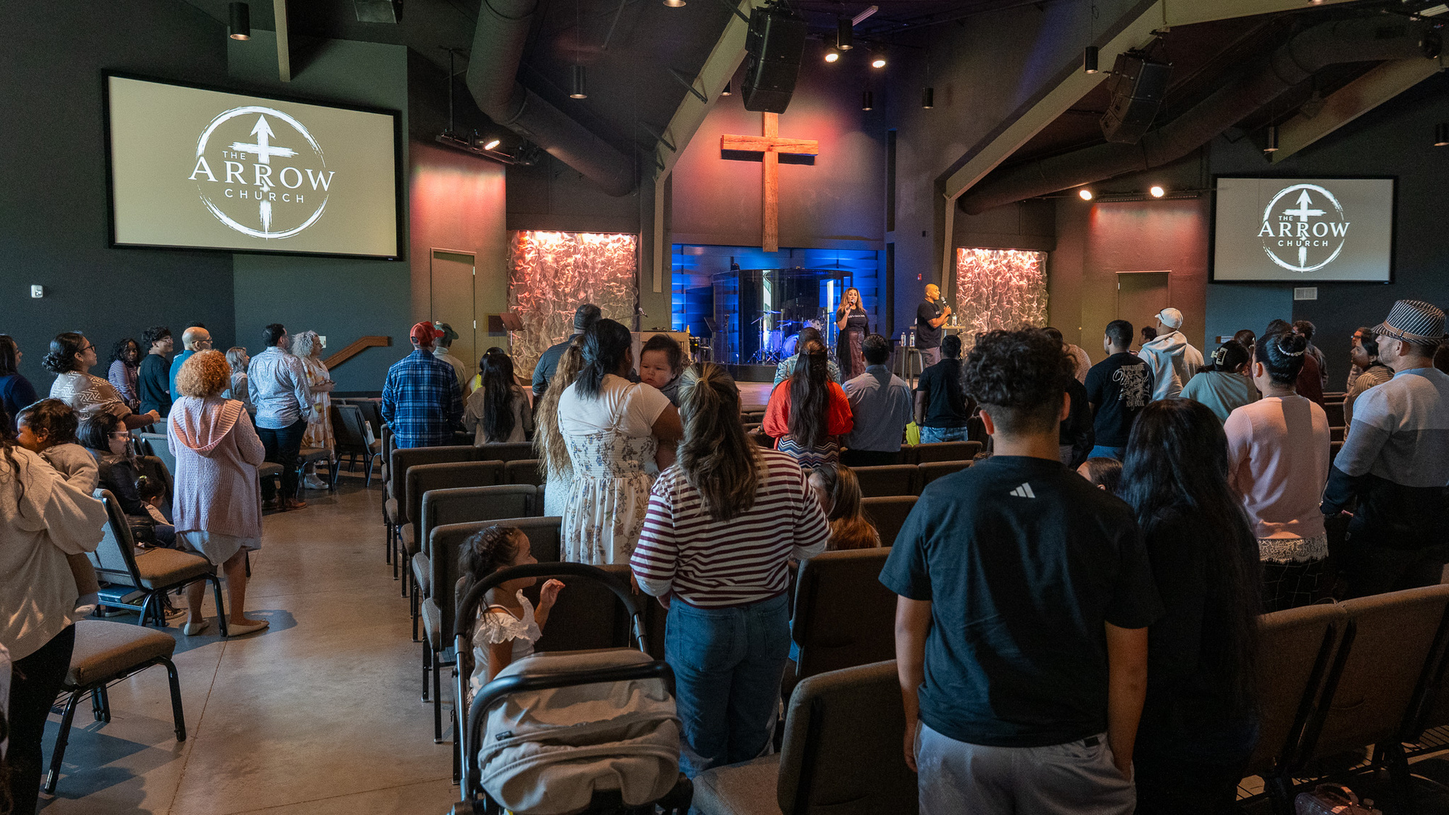
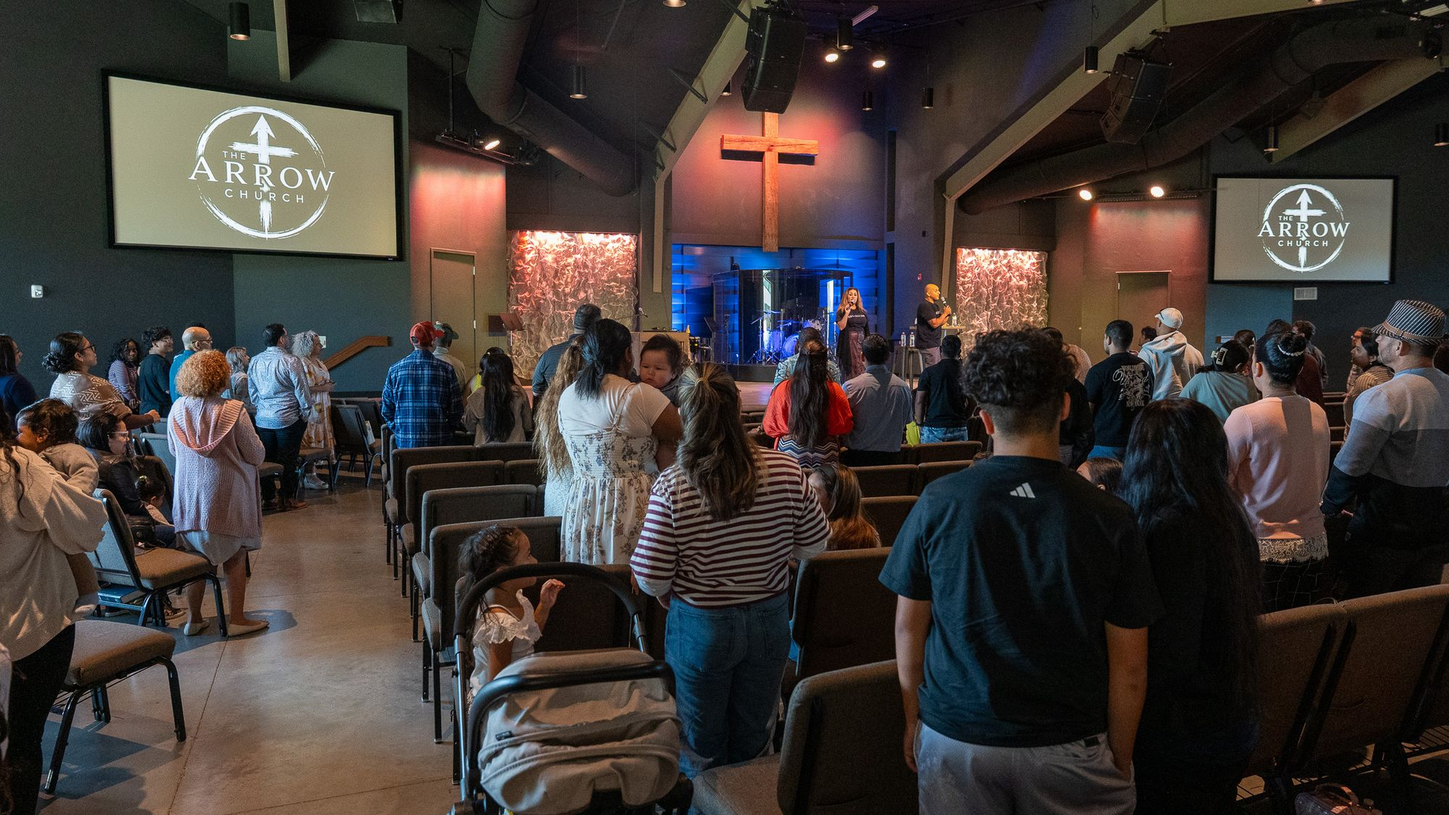
Shrink the heavy theme images and hint image loading. (#4)
Re-encode the hero, logo, pastors photo, and staff portraits, and add dimensions, lazy loading, and a high-priority preload for the hero.

diff --git a/index.html b/index.html
@@ -6,6 +6,7 @@
   <meta name="theme-color" content="#14213D">
   <title>The Arrow Church | A Place to Belong</title>
   <link rel="icon" href="assets/arrow-logo.png">
+  <link rel="preload" as="image" href="assets/arrow-home.jpg" fetchpriority="high">
   <link rel="preconnect" href="https://fonts.googleapis.com">
   <link rel="preconnect" href="https://fonts.gstatic.com" crossorigin>
   <link href="https://fonts.googleapis.com/css2?family=DM+Sans:wght@400;500;600;700&family=Manrope:wght@400;500;600;700;800&display=swap" rel="stylesheet">
@@ -15,7 +16,7 @@
   <a class="skip-link" href="#main">Skip to content</a>
   <header class="header" id="top">
     <div class="container header-inner">
-      <a class="logo" href="/" aria-label="The Arrow Church home"><img src="assets/arrow-logo.png" alt="The Arrow Church"></a>
+      <a class="logo" href="/" aria-label="The Arrow Church home"><img src="assets/arrow-logo.png" width="280" height="280" alt="The Arrow Church" decoding="async"></a>
       <button class="menu-toggle" type="button" aria-controls="main-nav" aria-expanded="false" aria-label="Open menu"><span></span><span></span></button>
       <nav id="main-nav" aria-label="Main navigation">
         <button class="menu-close" type="button">CLOSE MENU <span aria-hidden="true">&times;</span></button>
@@ -41,11 +42,11 @@
 
     <section class="welcome section" id="about"><div class="container welcome-grid"><div class="welcome-title"><p class="overline"><span class="overline-mark" aria-hidden="true"></span> WELCOME HOME</p><h2>Church can feel<br>like <em>home.</em></h2></div><div class="welcome-copy"><p>Join us in Janesville for a worship experience and a community where you truly belong. Whether this is your first time at church or you’ve been coming for years, there’s a place for you here.</p><a class="inline-link" href="/about/">GET TO KNOW US <span class="arrow-icon arrow-up-right" aria-hidden="true"></span></a></div></div></section>
 
-    <section class="experience section" id="experience"><div class="container"><div class="section-heading"><div><p class="overline"><span class="overline-mark" aria-hidden="true"></span> WHAT TO EXPECT</p><h2>Come as you are.<br><em>We mean it.</em></h2></div><p>Real people, worship, and room to connect. Your first visit starts with a simple hello.</p></div><div class="experience-layout"><div class="experience-photo"><img src="assets/arrow-worship.jpg" alt="Prayer and worship at The Arrow Church" loading="lazy"><span>01 / TOGETHER IN FAITH</span></div><div class="experience-panel"><span class="big-star" aria-hidden="true"></span><p class="panel-label">ONE CHURCH. TWO LANGUAGES.</p><h3>Bring your whole self.</h3><p>Our bilingual ministry gathers on Sundays and Fridays. Come with your family, bring a friend, or simply come as you are.</p><a class="button button-blue" href="#visit">JOIN US THIS WEEK <span class="arrow-icon arrow-up-right" aria-hidden="true"></span></a></div></div></div></section>
+    <section class="experience section" id="experience"><div class="container"><div class="section-heading"><div><p class="overline"><span class="overline-mark" aria-hidden="true"></span> WHAT TO EXPECT</p><h2>Come as you are.<br><em>We mean it.</em></h2></div><p>Real people, worship, and room to connect. Your first visit starts with a simple hello.</p></div><div class="experience-layout"><div class="experience-photo"><img src="assets/arrow-worship.jpg" width="670" height="350" alt="Prayer and worship at The Arrow Church" loading="lazy" decoding="async"><span>01 / TOGETHER IN FAITH</span></div><div class="experience-panel"><span class="big-star" aria-hidden="true"></span><p class="panel-label">ONE CHURCH. TWO LANGUAGES.</p><h3>Bring your whole self.</h3><p>Our bilingual ministry gathers on Sundays and Fridays. Come with your family, bring a friend, or simply come as you are.</p><a class="button button-blue" href="#visit">JOIN US THIS WEEK <span class="arrow-icon arrow-up-right" aria-hidden="true"></span></a></div></div></div></section>
 
     <section class="blue-statement section"><div class="container"><p class="overline light"><span class="overline-mark" aria-hidden="true"></span> YOU'RE INVITED</p><h2>Faith.<br>Family.<br><span>Forward.</span></h2><p>There’s a place for every generation at The Arrow.</p><a class="button button-white" href="#ministries">EXPLORE MINISTRIES <span class="arrow-icon arrow-up-right" aria-hidden="true"></span></a></div><div class="statement-arrow arrow-icon arrow-up-right" aria-hidden="true"></div></section>
 
-    <section class="ministries section" id="ministries"><div class="container"><div class="section-heading"><div><p class="overline"><span class="overline-mark" aria-hidden="true"></span> FIND YOUR PEOPLE</p><h2>A place for<br><em>every generation.</em></h2></div><p>Discover the ministries and community waiting for you and your family.</p></div><div class="ministry-grid"><a class="ministry-card" href="/ministries/childrens-ministry/"><img src="assets/arrow-kids.jpg" alt="Children at The Arrow Church" loading="lazy"><span class="ministry-title">KIDS <b class="arrow-icon arrow-up-right" aria-hidden="true"></b></span></a><a class="ministry-card" href="/ministries/youth-ministry/"><img src="assets/arrow-youth.jpg" alt="Youth at The Arrow Church" loading="lazy"><span class="ministry-title">YOUTH <b class="arrow-icon arrow-up-right" aria-hidden="true"></b></span></a><a class="ministry-card" href="/ministries/young-adults/"><img src="assets/arrow-young-adults.jpg" alt="Young adults at The Arrow Church" loading="lazy"><span class="ministry-title">YOUNG ADULTS <b class="arrow-icon arrow-up-right" aria-hidden="true"></b></span></a></div><a class="inline-link ministries-more" href="/ministries/">EXPLORE ALL MINISTRIES <span class="arrow-icon arrow-up-right" aria-hidden="true"></span></a></div></section>
+    <section class="ministries section" id="ministries"><div class="container"><div class="section-heading"><div><p class="overline"><span class="overline-mark" aria-hidden="true"></span> FIND YOUR PEOPLE</p><h2>A place for<br><em>every generation.</em></h2></div><p>Discover the ministries and community waiting for you and your family.</p></div><div class="ministry-grid"><a class="ministry-card" href="/ministries/childrens-ministry/"><img src="assets/arrow-kids.jpg" width="670" height="350" alt="Children at The Arrow Church" loading="lazy" decoding="async"><span class="ministry-title">KIDS <b class="arrow-icon arrow-up-right" aria-hidden="true"></b></span></a><a class="ministry-card" href="/ministries/youth-ministry/"><img src="assets/arrow-youth.jpg" width="670" height="350" alt="Youth at The Arrow Church" loading="lazy" decoding="async"><span class="ministry-title">YOUTH <b class="arrow-icon arrow-up-right" aria-hidden="true"></b></span></a><a class="ministry-card" href="/ministries/young-adults/"><img src="assets/arrow-young-adults.jpg" width="670" height="350" alt="Young adults at The Arrow Church" loading="lazy" decoding="async"><span class="ministry-title">YOUNG ADULTS <b class="arrow-icon arrow-up-right" aria-hidden="true"></b></span></a></div><a class="inline-link ministries-more" href="/ministries/">EXPLORE ALL MINISTRIES <span class="arrow-icon arrow-up-right" aria-hidden="true"></span></a></div></section>
 
     <section class="watch section" id="watch"><div class="container watch-grid"><div><p class="overline light"><span class="overline-mark" aria-hidden="true"></span> THE ARROW CHURCH ANYWHERE</p><h2>Church goes<br>where <em>you go.</em></h2><p>Join our family online, wherever you are. Watch live on Sundays at 12:30 PM and Fridays at 7:00 PM Central, or catch up on YouTube.</p><a class="button button-coral" href="https://www.youtube.com/@thearrowchurch/videos">MORE VIDEOS <span class="arrow-icon arrow-up-right" aria-hidden="true"></span></a></div><div class="watch-photo live-frame"><div class="live-poster"><span class="live-poster-label">THE ARROW CHURCH · ONLINE</span><div><strong>Worship with us<br>from anywhere.</strong><button class="live-play" type="button">PLAY LIVE SERVICE <span class="arrow-icon arrow-up-right" aria-hidden="true"></span></button><a href="https://www.youtube.com/@thearrowchurch/live" target="_blank" rel="noopener noreferrer">OPEN ON YOUTUBE <span class="arrow-icon arrow-up-right" aria-hidden="true"></span></a></div></div><iframe data-src="https://www.youtube-nocookie.com/embed/live_stream?channel=UCcavBZcLguyVMvWQST8CpMw" title="The Arrow Church live service" loading="lazy" allow="accelerometer; autoplay; clipboard-write; encrypted-media; gyroscope; picture-in-picture; web-share" allowfullscreen hidden></iframe></div></div></section>
 
@@ -53,7 +54,7 @@
     <section class="contact section" id="contact"><div class="container contact-grid"><div><p class="overline"><span class="overline-mark" aria-hidden="true"></span> GET IN TOUCH</p><h2>Let's talk.</h2><p>Have a question or want to plan your first visit? Send us a message and our team will be in touch.</p><a class="inline-link" href="tel:16087744837">OR CALL (608) 774-4837 <span class="arrow-icon arrow-up-right" aria-hidden="true"></span></a></div><form class="contact-form" action="/wp-admin/admin-post.php" method="post"><input type="hidden" name="action" value="arrow_contact"><input type="hidden" name="arrow_nonce" value="__ARROW_NONCE__"><div class="honey" aria-hidden="true"><label for="website-field">Website</label><input id="website-field" name="website" type="text" tabindex="-1" autocomplete="off"></div><label for="contact-name">Name</label><input id="contact-name" name="name" type="text" autocomplete="name" required maxlength="120"><label for="contact-email">Email</label><input id="contact-email" name="email" type="email" autocomplete="email" required maxlength="254"><label for="contact-message">Message</label><textarea id="contact-message" name="message" rows="5" required maxlength="5000"></textarea><button class="button button-dark" type="submit">SEND MESSAGE <span class="arrow-icon arrow-up-right" aria-hidden="true"></span></button><p class="contact-status" role="status">__ARROW_CONTACT_STATUS__</p></form></div></section>
   </main>
 
-  <footer class="footer"><div class="container"><div class="footer-main"><img src="assets/arrow-logo.png" alt="The Arrow Church"><div><p>FOLLOW ALONG</p><a href="https://www.instagram.com/the.arrow.church/">Instagram <span class="arrow-icon arrow-up-right" aria-hidden="true"></span></a><a href="https://www.youtube.com/@thearrowchurch">YouTube <span class="arrow-icon arrow-up-right" aria-hidden="true"></span></a><a href="https://www.facebook.com/profile.php?id=100081125124651">Facebook <span class="arrow-icon arrow-up-right" aria-hidden="true"></span></a></div><div><p>EXPLORE</p><a href="/about/">About <span class="arrow-icon arrow-up-right" aria-hidden="true"></span></a><a href="/about/our-team/">Staff <span class="arrow-icon arrow-up-right" aria-hidden="true"></span></a><a href="/ministries/">Ministries <span class="arrow-icon arrow-up-right" aria-hidden="true"></span></a><a href="/events/">Events <span class="arrow-icon arrow-up-right" aria-hidden="true"></span></a><a href="/pages/watch-live/">Watch Live <span class="arrow-icon arrow-up-right" aria-hidden="true"></span></a><a href="/contact/">Contact <span class="arrow-icon arrow-up-right" aria-hidden="true"></span></a><a href="/give/">Give <span class="arrow-icon arrow-up-right" aria-hidden="true"></span></a></div><div><p>VISIT</p><a href="https://maps.app.goo.gl/62ZYeJGdf3Qw7sJn7">2931 Lucerne Dr, Janesville, WI 53545 <span class="arrow-icon arrow-up-right" aria-hidden="true"></span></a><a href="tel:16087744837">(608) 774-4837 <span class="arrow-icon arrow-up-right" aria-hidden="true"></span></a></div></div><div class="footer-bottom"><span>© <span id="year"></span> THE ARROW CHURCH BILINGUAL MINISTRY</span><span>DEVELOPED BY <a href="https://computerconceptswi.com/">COMPUTERCONCEPTSWI.COM</a></span><a href="#top">BACK TO TOP <span class="arrow-icon arrow-up" aria-hidden="true"></span></a></div></div></footer>
+  <footer class="footer"><div class="container"><div class="footer-main"><img src="assets/arrow-logo.png" width="280" height="280" alt="The Arrow Church" loading="lazy" decoding="async"><div><p>FOLLOW ALONG</p><a href="https://www.instagram.com/the.arrow.church/">Instagram <span class="arrow-icon arrow-up-right" aria-hidden="true"></span></a><a href="https://www.youtube.com/@thearrowchurch">YouTube <span class="arrow-icon arrow-up-right" aria-hidden="true"></span></a><a href="https://www.facebook.com/profile.php?id=100081125124651">Facebook <span class="arrow-icon arrow-up-right" aria-hidden="true"></span></a></div><div><p>EXPLORE</p><a href="/about/">About <span class="arrow-icon arrow-up-right" aria-hidden="true"></span></a><a href="/about/our-team/">Staff <span class="arrow-icon arrow-up-right" aria-hidden="true"></span></a><a href="/ministries/">Ministries <span class="arrow-icon arrow-up-right" aria-hidden="true"></span></a><a href="/events/">Events <span class="arrow-icon arrow-up-right" aria-hidden="true"></span></a><a href="/pages/watch-live/">Watch Live <span class="arrow-icon arrow-up-right" aria-hidden="true"></span></a><a href="/contact/">Contact <span class="arrow-icon arrow-up-right" aria-hidden="true"></span></a><a href="/give/">Give <span class="arrow-icon arrow-up-right" aria-hidden="true"></span></a></div><div><p>VISIT</p><a href="https://maps.app.goo.gl/62ZYeJGdf3Qw7sJn7">2931 Lucerne Dr, Janesville, WI 53545 <span class="arrow-icon arrow-up-right" aria-hidden="true"></span></a><a href="tel:16087744837">(608) 774-4837 <span class="arrow-icon arrow-up-right" aria-hidden="true"></span></a></div></div><div class="footer-bottom"><span>© <span id="year"></span> THE ARROW CHURCH BILINGUAL MINISTRY</span><span>DEVELOPED BY <a href="https://computerconceptswi.com/">COMPUTERCONCEPTSWI.COM</a></span><a href="#top">BACK TO TOP <span class="arrow-icon arrow-up" aria-hidden="true"></span></a></div></div></footer>
   <script src="script.js"></script>
 </body>
 </html>

diff --git a/pages/content.php b/pages/content.php
@@ -10,7 +10,7 @@ $asset = static function ($file) {
 if ($path === 'about') : ?>
 <section class="section"><div class="container split-story">
     <div><p class="overline"><span class="overline-mark" aria-hidden="true"></span> MEET OUR PASTORS</p><h2>Samuel &amp;<br><em>Itzel Torres.</em></h2><p>Pastors Samuel and Itzel Torres founded The Arrow Church in Janesville to unite people through faith, whatever their language, culture, or background. Their heart is to build a family united in Christ, where lives are transformed and everyone belongs.</p><p>Los pastores Samuel e Itzel Torres fundaron The Arrow Church en Janesville para unir a las personas por medio de la fe, sin importar su idioma, cultura o procedencia. Su corazón es formar una familia unida en Cristo, donde las vidas son transformadas y todos pertenecen.</p><a class="inline-link" href="<?php echo $url('about/our-team'); ?>">MEET OUR TEAM <span class="arrow-icon arrow-up-right" aria-hidden="true"></span></a></div>
-    <img src="<?php echo $asset('arrow-pastors.jpg'); ?>" style="<?php echo esc_attr(arrow_photo_style('arrow-pastors.jpg')); ?>" alt="Pastors Samuel and Itzel Torres" loading="lazy">
+    <img src="<?php echo $asset('arrow-pastors.jpg'); ?>" style="<?php echo esc_attr(arrow_photo_style('arrow-pastors.jpg')); ?>" alt="Pastors Samuel and Itzel Torres"<?php echo arrow_img_attrs('arrow-pastors.jpg'); ?>>
 </div></section>
 <section class="section section-soft"><div class="container"><p class="overline"><span class="overline-mark" aria-hidden="true"></span> OUR VISION / NUESTRA VISIÓN</p><h2>Conectar. Formar.<br><em>Enviar.</em></h2><p class="section-lead">Connect. Form. Send.</p><div class="value-grid">
     <article><span>01</span><h3>Conectar / Connect</h3><p>Conectar a las personas con Dios, con su identidad en Cristo y con una comunidad de fe.</p><p>Connecting people with God, their identity in Christ, and a community of faith.</p></article>
@@ -31,7 +31,7 @@ if ($path === 'about') : ?>
         <div class="staff-grid" role="list" aria-label="Staff profiles">
             <?php foreach (arrow_staff_profiles() as $number => $profile) : ?>
                 <article class="staff-card" role="listitem">
-                    <img src="<?php echo $asset($profile['image']); ?>" style="<?php echo esc_attr(arrow_photo_style($profile['image'])); ?>" alt="<?php echo esc_attr('Portrait of ' . $profile['name'] . ', The Arrow Church'); ?>" loading="<?php echo $number <= 2 ? 'eager' : 'lazy'; ?>">
+                    <img src="<?php echo $asset($profile['image']); ?>" style="<?php echo esc_attr(arrow_photo_style($profile['image'])); ?>" alt="<?php echo esc_attr('Portrait of ' . $profile['name'] . ', The Arrow Church'); ?>" <?php echo arrow_img_attrs($profile['image'], $number <= 2 ? 'eager' : 'lazy'); ?>>
                     <div class="staff-card-caption">
                         <span class="staff-role"><?php echo esc_html($profile['title']); ?></span>
                         <h3><?php echo esc_html($profile['name']); ?></h3>
@@ -44,7 +44,7 @@ if ($path === 'about') : ?>
 <?php elseif ($path === 'ministries') : ?>
 <section class="section"><div class="container"><p class="overline"><span class="overline-mark" aria-hidden="true"></span> ALL ARE WELCOME</p><h2>There’s room<br>to <em>belong.</em></h2><div class="sub-card-grid">
     <?php foreach ([['childrens-ministry','KIDS','Children ages 4 to 11.','arrow-kids.jpg'],['youth-ministry','YOUTH','Teenagers ages 10 to 18.','arrow-youth.jpg'],['young-adults','YOUNG ADULTS','Men and women ages 18 and up.','arrow-young-adults.jpg'],['prayer-oracion','PRAYER / ORACIÓN','A church that prays stands firm.','arrow-prayer.jpg']] as $item) : ?>
-    <a class="sub-card" href="<?php echo $url('ministries/' . $item[0]); ?>"><img src="<?php echo $asset($item[3]); ?>" style="<?php echo esc_attr(arrow_photo_style($item[3])); ?>" alt="<?php echo esc_attr($item[1]); ?> at The Arrow Church" loading="lazy"><span><?php echo esc_html($item[2]); ?></span><strong><?php echo esc_html($item[1]); ?> <b class="arrow-icon arrow-up-right" aria-hidden="true"></b></strong></a>
+    <a class="sub-card" href="<?php echo $url('ministries/' . $item[0]); ?>"><img src="<?php echo $asset($item[3]); ?>" style="<?php echo esc_attr(arrow_photo_style($item[3])); ?>" alt="<?php echo esc_attr($item[1]); ?> at The Arrow Church"<?php echo arrow_img_attrs($item[3]); ?>><span><?php echo esc_html($item[2]); ?></span><strong><?php echo esc_html($item[1]); ?> <b class="arrow-icon arrow-up-right" aria-hidden="true"></b></strong></a>
     <?php endforeach; ?>
 </div></div></section>
 <?php elseif (str_starts_with($path, 'ministries/')) :
@@ -55,7 +55,7 @@ if ($path === 'about') : ?>
         'ministries/prayer-oracion' => ['Prayer / Oración', 'Prayer is at the heart of The Arrow Church. A church that prays is a church that stands, because when a church kneels before God, heaven moves on its behalf. Join us as we seek God together.', 'La oración está en el corazón de The Arrow Church. Una iglesia que ora es una iglesia que permanece de pie. Únete a nosotros para buscar a Dios juntos.'],
     ][$path] ?? null;
     if ($ministry) : ?>
-<section class="section"><div class="container split-story"><div><p class="overline"><span class="overline-mark" aria-hidden="true"></span> FIND YOUR PEOPLE</p><h2><?php echo esc_html($ministry[0]); ?></h2><p><?php echo esc_html($ministry[1]); ?></p><p><?php echo esc_html($ministry[2]); ?></p><a class="button button-dark" href="<?php echo $url('contact'); ?>">GET IN TOUCH <span class="arrow-icon arrow-up-right" aria-hidden="true"></span></a></div><img src="<?php echo $asset($arrow_page['image']); ?>" style="<?php echo esc_attr(arrow_photo_style($arrow_page['image'])); ?>" alt="<?php echo esc_attr($ministry[0]); ?> at The Arrow Church" loading="lazy"></div></section>
+<section class="section"><div class="container split-story"><div><p class="overline"><span class="overline-mark" aria-hidden="true"></span> FIND YOUR PEOPLE</p><h2><?php echo esc_html($ministry[0]); ?></h2><p><?php echo esc_html($ministry[1]); ?></p><p><?php echo esc_html($ministry[2]); ?></p><a class="button button-dark" href="<?php echo $url('contact'); ?>">GET IN TOUCH <span class="arrow-icon arrow-up-right" aria-hidden="true"></span></a></div><img src="<?php echo $asset($arrow_page['image']); ?>" style="<?php echo esc_attr(arrow_photo_style($arrow_page['image'])); ?>" alt="<?php echo esc_attr($ministry[0]); ?> at The Arrow Church"<?php echo arrow_img_attrs($arrow_page['image']); ?>></div></section>
 <section class="section section-soft"><div class="container compact-cta"><p class="overline"><span class="overline-mark" aria-hidden="true"></span> MORE TO EXPLORE</p><h2>Find your place<br><em>at The Arrow.</em></h2><a class="button button-dark" href="<?php echo $url('ministries'); ?>">ALL MINISTRIES <span class="arrow-icon arrow-up-right" aria-hidden="true"></span></a></div></section>
     <?php endif;
 elseif ($path === 'events') : ?>
@@ -72,13 +72,13 @@ elseif ($path === 'events') : ?>
 <?php elseif ($path === 'events/sunday-worship') :
     $event_date = arrow_event_date('sunday-worship');
     $date_string = $event_date->format('Y-m-d'); ?>
-<section class="section"><div class="container event-detail"><div><p class="overline"><span class="overline-mark" aria-hidden="true"></span> SUNDAY WORSHIP</p><h2><?php echo esc_html($event_date->format('Sunday, F j')); ?>.</h2><p>Worship with us at 12:30 PM Central. Come as you are and bring the whole family. Children’s Ministry begins at 1:30 PM.</p><div class="detail-facts"><div><small>WHEN</small><strong><?php echo esc_html($event_date->format('F j, Y')); ?> · 12:30–1:30 PM</strong></div><div><small>WHERE</small><strong>2931 Lucerne Dr, Janesville, WI 53545</strong></div></div><div class="button-row"><a class="button button-dark" href="<?php echo esc_url(home_url('/events/sunday-worship/' . $date_string . '.ics')); ?>">ADD TO CALENDAR <span class="arrow-icon arrow-up-right" aria-hidden="true"></span></a><a class="pill-link" href="<?php echo $url('events'); ?>">ALL EVENTS</a></div></div><img src="<?php echo $asset('arrow-home.jpg'); ?>" style="<?php echo esc_attr(arrow_photo_style('arrow-home.jpg')); ?>" alt="Worship at The Arrow Church" loading="lazy"></div></section>
+<section class="section"><div class="container event-detail"><div><p class="overline"><span class="overline-mark" aria-hidden="true"></span> SUNDAY WORSHIP</p><h2><?php echo esc_html($event_date->format('Sunday, F j')); ?>.</h2><p>Worship with us at 12:30 PM Central. Come as you are and bring the whole family. Children’s Ministry begins at 1:30 PM.</p><div class="detail-facts"><div><small>WHEN</small><strong><?php echo esc_html($event_date->format('F j, Y')); ?> · 12:30–1:30 PM</strong></div><div><small>WHERE</small><strong>2931 Lucerne Dr, Janesville, WI 53545</strong></div></div><div class="button-row"><a class="button button-dark" href="<?php echo esc_url(home_url('/events/sunday-worship/' . $date_string . '.ics')); ?>">ADD TO CALENDAR <span class="arrow-icon arrow-up-right" aria-hidden="true"></span></a><a class="pill-link" href="<?php echo $url('events'); ?>">ALL EVENTS</a></div></div><img src="<?php echo $asset('arrow-home.jpg'); ?>" style="<?php echo esc_attr(arrow_photo_style('arrow-home.jpg')); ?>" alt="Worship at The Arrow Church"<?php echo arrow_img_attrs('arrow-home.jpg'); ?>></div></section>
 <?php elseif ($path === 'events/friday-worship') :
     $event_date = arrow_event_date('friday-worship');
     $date_string = $event_date->format('Y-m-d'); ?>
-<section class="section"><div class="container event-detail"><div><p class="overline"><span class="overline-mark" aria-hidden="true"></span> FRIDAY WORSHIP</p><h2><?php echo esc_html($event_date->format('l, F j')); ?>.</h2><p>Worship with us at 7:00 PM Central. Come as you are and bring the whole family.</p><div class="detail-facts"><div><small>WHEN</small><strong><?php echo esc_html($event_date->format('F j, Y')); ?> · 7:00–9:00 PM</strong></div><div><small>WHERE</small><strong>2931 Lucerne Dr, Janesville, WI 53545</strong></div></div><div class="button-row"><a class="button button-dark" href="<?php echo esc_url(home_url('/events/friday-worship/' . $date_string . '.ics')); ?>">ADD TO CALENDAR <span class="arrow-icon arrow-up-right" aria-hidden="true"></span></a><a class="pill-link" href="<?php echo $url('events'); ?>">ALL EVENTS</a></div></div><img src="<?php echo $asset('arrow-home.jpg'); ?>" style="<?php echo esc_attr(arrow_photo_style('arrow-home.jpg')); ?>" alt="Worship at The Arrow Church" loading="lazy"></div></section>
+<section class="section"><div class="container event-detail"><div><p class="overline"><span class="overline-mark" aria-hidden="true"></span> FRIDAY WORSHIP</p><h2><?php echo esc_html($event_date->format('l, F j')); ?>.</h2><p>Worship with us at 7:00 PM Central. Come as you are and bring the whole family.</p><div class="detail-facts"><div><small>WHEN</small><strong><?php echo esc_html($event_date->format('F j, Y')); ?> · 7:00–9:00 PM</strong></div><div><small>WHERE</small><strong>2931 Lucerne Dr, Janesville, WI 53545</strong></div></div><div class="button-row"><a class="button button-dark" href="<?php echo esc_url(home_url('/events/friday-worship/' . $date_string . '.ics')); ?>">ADD TO CALENDAR <span class="arrow-icon arrow-up-right" aria-hidden="true"></span></a><a class="pill-link" href="<?php echo $url('events'); ?>">ALL EVENTS</a></div></div><img src="<?php echo $asset('arrow-home.jpg'); ?>" style="<?php echo esc_attr(arrow_photo_style('arrow-home.jpg')); ?>" alt="Worship at The Arrow Church"<?php echo arrow_img_attrs('arrow-home.jpg'); ?>></div></section>
 <?php elseif ($path === 'live') : ?>
-<section class="section"><div class="container"><p class="overline"><span class="overline-mark" aria-hidden="true"></span> PAST LIVE STREAMS</p><h2>Watch the <em>message.</em></h2><div class="video-grid"><a class="video-card" href="<?php echo $url('livestreams/2'); ?>"><img src="<?php echo $asset('arrow-worship.jpg'); ?>" style="<?php echo esc_attr(arrow_photo_style('arrow-worship.jpg')); ?>" alt="Guest speaker service" loading="lazy"><span>OCT 30, 2026 · GUEST SPEAKER</span><h3>The Arrow Church Live Stream <span class="arrow-icon arrow-up-right" aria-hidden="true"></span></h3></a><a class="video-card" href="<?php echo $url('livestreams/1'); ?>"><img src="<?php echo $asset('arrow-home.jpg'); ?>" style="<?php echo esc_attr(arrow_photo_style('arrow-home.jpg')); ?>" alt="The Arrow Church live stream" loading="lazy"><span>OCT 25, 2026</span><h3>The Arrow Church Live Stream <span class="arrow-icon arrow-up-right" aria-hidden="true"></span></h3></a></div><div class="button-row"><a class="button button-dark" href="<?php echo $url('pages/watch-live'); ?>">WATCH LIVE <span class="arrow-icon arrow-up-right" aria-hidden="true"></span></a><a class="pill-link" href="https://www.youtube.com/@thearrowchurch/videos">MORE ON YOUTUBE <span class="arrow-icon arrow-up-right" aria-hidden="true"></span></a></div></div></section>
+<section class="section"><div class="container"><p class="overline"><span class="overline-mark" aria-hidden="true"></span> PAST LIVE STREAMS</p><h2>Watch the <em>message.</em></h2><div class="video-grid"><a class="video-card" href="<?php echo $url('livestreams/2'); ?>"><img src="<?php echo $asset('arrow-worship.jpg'); ?>" style="<?php echo esc_attr(arrow_photo_style('arrow-worship.jpg')); ?>" alt="Guest speaker service"<?php echo arrow_img_attrs('arrow-worship.jpg'); ?>><span>OCT 30, 2026 · GUEST SPEAKER</span><h3>The Arrow Church Live Stream <span class="arrow-icon arrow-up-right" aria-hidden="true"></span></h3></a><a class="video-card" href="<?php echo $url('livestreams/1'); ?>"><img src="<?php echo $asset('arrow-home.jpg'); ?>" style="<?php echo esc_attr(arrow_photo_style('arrow-home.jpg')); ?>" alt="The Arrow Church live stream"<?php echo arrow_img_attrs('arrow-home.jpg'); ?>><span>OCT 25, 2026</span><h3>The Arrow Church Live Stream <span class="arrow-icon arrow-up-right" aria-hidden="true"></span></h3></a></div><div class="button-row"><a class="button button-dark" href="<?php echo $url('pages/watch-live'); ?>">WATCH LIVE <span class="arrow-icon arrow-up-right" aria-hidden="true"></span></a><a class="pill-link" href="https://www.youtube.com/@thearrowchurch/videos">MORE ON YOUTUBE <span class="arrow-icon arrow-up-right" aria-hidden="true"></span></a></div></div></section>
 <?php elseif ($path === 'livestreams/1' || $path === 'livestreams/2') :
     $video_id = $path === 'livestreams/1' ? 'QTDpXQkTbdE' : 'JkHknKZXw28'; ?>
 <section class="section section-dark"><div class="container media-page"><div class="video-embed"><iframe src="<?php echo esc_url('https://www.youtube-nocookie.com/embed/' . $video_id); ?>" title="<?php echo esc_attr($arrow_page['title']); ?>" loading="lazy" allow="accelerometer; autoplay; clipboard-write; encrypted-media; gyroscope; picture-in-picture; web-share" allowfullscreen></iframe></div><div class="button-row"><a class="pill-link light-pill" href="<?php echo $url('live'); ?>"><span class="arrow-icon arrow-left" aria-hidden="true"></span> ALL SERMONS</a><a class="pill-link light-pill" href="https://www.youtube.com/watch?v=<?php echo esc_attr($video_id); ?>">WATCH ON YOUTUBE <span class="arrow-icon arrow-up-right" aria-hidden="true"></span></a></div></div></section>
@@ -90,11 +90,11 @@ elseif ($path === 'events') : ?>
         $live_srcset = $live_base . 'arrow-home-800.jpg 800w, ' . $live_base . 'arrow-home-1200.jpg 1200w, ' . $live_still . ' 2000w';
     }
 ?>
-<section class="section section-dark"><div class="container live-page-grid"><div><p class="overline light"><span class="overline-mark" aria-hidden="true"></span> LIVE STREAM · EN VIVO</p><h2>Church goes<br>where <em>you go.</em></h2><p>Adora con nosotros desde cualquier lugar. You’re part of our family no matter where you are.</p><div class="detail-facts"><div><small>SUNDAYS / DOMINGOS</small><strong>12:30 PM CENTRAL</strong></div><div><small>FRIDAYS / VIERNES</small><strong>7:00 PM CENTRAL</strong></div></div><a class="pill-link light-pill" href="https://www.youtube.com/@thearrowchurch/live">WATCH ON YOUTUBE <span class="arrow-icon arrow-up-right" aria-hidden="true"></span></a></div><div class="watch-photo live-frame"><div class="live-poster"><img class="live-still" src="<?php echo esc_url($live_still); ?>" <?php if ($live_srcset !== '') : ?>srcset="<?php echo esc_attr($live_srcset); ?>" sizes="(max-width: 950px) calc(100vw - 40px), 640px" <?php endif; ?>width="2000" height="1125" alt="Worship gathering at The Arrow Church"><span class="live-badge"><span class="live-dot" aria-hidden="true"></span>LIVE · EN VIVO</span><span class="live-poster-label">THE ARROW CHURCH · ONLINE</span><div><strong>Worship with us<br>from anywhere.</strong><button class="live-play" type="button">PLAY LIVE SERVICE <span class="arrow-icon arrow-up-right" aria-hidden="true"></span></button><a href="https://www.youtube.com/@thearrowchurch/live" target="_blank" rel="noopener noreferrer">OPEN ON YOUTUBE <span class="arrow-icon arrow-up-right" aria-hidden="true"></span></a></div></div><iframe data-src="https://www.youtube-nocookie.com/embed/live_stream?channel=UCcavBZcLguyVMvWQST8CpMw" title="The Arrow Church live service" loading="lazy" allow="accelerometer; autoplay; clipboard-write; encrypted-media; gyroscope; picture-in-picture; web-share" allowfullscreen hidden></iframe></div></div></section><section class="section"><div class="container compact-cta"><p class="overline"><span class="overline-mark" aria-hidden="true"></span> CATCH UP</p><h2>Missed a <em>service?</em></h2><a class="button button-dark" href="<?php echo $url('live'); ?>">PAST SERMONS <span class="arrow-icon arrow-up-right" aria-hidden="true"></span></a></div></section>
+<section class="section section-dark"><div class="container live-page-grid"><div><p class="overline light"><span class="overline-mark" aria-hidden="true"></span> LIVE STREAM · EN VIVO</p><h2>Church goes<br>where <em>you go.</em></h2><p>Adora con nosotros desde cualquier lugar. You’re part of our family no matter where you are.</p><div class="detail-facts"><div><small>SUNDAYS / DOMINGOS</small><strong>12:30 PM CENTRAL</strong></div><div><small>FRIDAYS / VIERNES</small><strong>7:00 PM CENTRAL</strong></div></div><a class="pill-link light-pill" href="https://www.youtube.com/@thearrowchurch/live">WATCH ON YOUTUBE <span class="arrow-icon arrow-up-right" aria-hidden="true"></span></a></div><div class="watch-photo live-frame"><div class="live-poster"><img class="live-still" src="<?php echo esc_url($live_still); ?>" <?php if ($live_srcset !== '') : ?>srcset="<?php echo esc_attr($live_srcset); ?>" sizes="(max-width: 950px) calc(100vw - 40px), 640px" <?php endif; ?>width="2000" height="1125" alt="Worship gathering at The Arrow Church" decoding="async" fetchpriority="high"><span class="live-badge"><span class="live-dot" aria-hidden="true"></span>LIVE · EN VIVO</span><span class="live-poster-label">THE ARROW CHURCH · ONLINE</span><div><strong>Worship with us<br>from anywhere.</strong><button class="live-play" type="button">PLAY LIVE SERVICE <span class="arrow-icon arrow-up-right" aria-hidden="true"></span></button><a href="https://www.youtube.com/@thearrowchurch/live" target="_blank" rel="noopener noreferrer">OPEN ON YOUTUBE <span class="arrow-icon arrow-up-right" aria-hidden="true"></span></a></div></div><iframe data-src="https://www.youtube-nocookie.com/embed/live_stream?channel=UCcavBZcLguyVMvWQST8CpMw" title="The Arrow Church live service" loading="lazy" allow="accelerometer; autoplay; clipboard-write; encrypted-media; gyroscope; picture-in-picture; web-share" allowfullscreen hidden></iframe></div></div></section><section class="section"><div class="container compact-cta"><p class="overline"><span class="overline-mark" aria-hidden="true"></span> CATCH UP</p><h2>Missed a <em>service?</em></h2><a class="button button-dark" href="<?php echo $url('live'); ?>">PAST SERMONS <span class="arrow-icon arrow-up-right" aria-hidden="true"></span></a></div></section>
 <?php elseif ($path === 'contact') :
     $contact_status = isset($_GET['contact']) ? sanitize_key(wp_unslash($_GET['contact'])) : ''; ?>
 <section class="section section-soft"><div class="container contact-page-grid"><div><p class="overline"><span class="overline-mark" aria-hidden="true"></span> COME SEE US</p><h2>Find us in<br><em>Janesville.</em></h2><p>2931 Lucerne Dr<br>Janesville, WI 53545</p><a class="inline-link" href="https://maps.app.goo.gl/62ZYeJGdf3Qw7sJn7">GET DIRECTIONS <span class="arrow-icon arrow-up-right" aria-hidden="true"></span></a><div class="detail-facts"><div><small>PHONE</small><a href="tel:16087744837">(608) 774-4837</a></div><div><small>SERVICE TIMES</small><strong>Sunday 12:30 PM · Friday 7:00 PM</strong></div></div></div><form class="contact-form" action="<?php echo esc_url(admin_url('admin-post.php')); ?>" method="post"><input type="hidden" name="action" value="arrow_contact"><input type="hidden" name="arrow_nonce" value="<?php echo esc_attr(wp_create_nonce('arrow_contact')); ?>"><input type="hidden" name="return_to" value="contact"><div class="honey" aria-hidden="true"><label for="website-field">Website</label><input id="website-field" name="website" type="text" tabindex="-1" autocomplete="off"></div><label for="contact-name">Name</label><input id="contact-name" name="name" type="text" autocomplete="name" required maxlength="120"><label for="contact-email">Email</label><input id="contact-email" name="email" type="email" autocomplete="email" required maxlength="254"><label for="contact-message">Message</label><textarea id="contact-message" name="message" rows="5" required maxlength="5000"></textarea><button class="button button-dark" type="submit">SEND MESSAGE <span class="arrow-icon arrow-up-right" aria-hidden="true"></span></button><p class="contact-status" role="status"><?php echo $contact_status === 'sent' ? 'Thanks for reaching out. Your message has been received.' : ($contact_status === 'error' ? 'Your message could not be sent. Please call us at (608) 774-4837.' : ''); ?></p></form></div></section>
 <?php elseif ($path === 'give') : ?>
-<section class="section"><div class="container give-layout"><div><p class="overline"><span class="overline-mark" aria-hidden="true"></span> THANK YOU / GRACIAS</p><h2>Give with<br><em>purpose.</em></h2><p>Your giving helps us serve Janesville and beyond. Give securely online through The Arrow Church’s existing giving provider.</p><p>Su ofrenda nos ayuda a servir a Janesville. Dé de forma segura en línea.</p><a class="button button-give" href="https://give.tithe.ly/?locationId=7c9496e9-284d-4430-ba85-4c15d8a9619a&amp;giveButtonText=Give%20Online%20Now" target="_blank" rel="noopener noreferrer">GIVE ONLINE NOW <span class="arrow-icon arrow-up-right" aria-hidden="true"></span></a></div><div class="give-photo"><img src="<?php echo $asset('arrow-worship.jpg'); ?>" style="<?php echo esc_attr(arrow_photo_style('arrow-worship.jpg')); ?>" alt="The Arrow Church family worshiping together" loading="lazy"><span>FAITH · FAMILY · FORWARD</span></div></div></section>
+<section class="section"><div class="container give-layout"><div><p class="overline"><span class="overline-mark" aria-hidden="true"></span> THANK YOU / GRACIAS</p><h2>Give with<br><em>purpose.</em></h2><p>Your giving helps us serve Janesville and beyond. Give securely online through The Arrow Church’s existing giving provider.</p><p>Su ofrenda nos ayuda a servir a Janesville. Dé de forma segura en línea.</p><a class="button button-give" href="https://give.tithe.ly/?locationId=7c9496e9-284d-4430-ba85-4c15d8a9619a&amp;giveButtonText=Give%20Online%20Now" target="_blank" rel="noopener noreferrer">GIVE ONLINE NOW <span class="arrow-icon arrow-up-right" aria-hidden="true"></span></a></div><div class="give-photo"><img src="<?php echo $asset('arrow-worship.jpg'); ?>" style="<?php echo esc_attr(arrow_photo_style('arrow-worship.jpg')); ?>" alt="The Arrow Church family worshiping together"<?php echo arrow_img_attrs('arrow-worship.jpg'); ?>><span>FAITH · FAMILY · FORWARD</span></div></div></section>
 <?php endif; ?>
 <section class="subpage-bottom"><div class="container"><p class="overline light"><span class="overline-mark" aria-hidden="true"></span> YOU BELONG HERE</p><h2>Come as you are.<br><em>We mean it.</em></h2><a class="button button-coral" href="<?php echo esc_url(home_url('/#visit')); ?>">PLAN A VISIT <span class="arrow-icon arrow-up-right" aria-hidden="true"></span></a></div></section>

diff --git a/page.php b/page.php
@@ -23,6 +23,7 @@ $theme = get_template_directory_uri();
     <meta name="viewport" content="width=device-width, initial-scale=1">
     <meta name="theme-color" content="#14213D">
     <link rel="icon" href="<?php echo esc_url(arrow_photo_url('arrow-logo.png')); ?>">
+    <?php if ($arrow_page && $path !== 'about/our-team') : ?><link rel="preload" as="image" href="<?php echo esc_url(arrow_photo_url($arrow_page['image'], 'hero:' . $path)); ?>" fetchpriority="high"><?php endif; ?>
     <link rel="preconnect" href="https://fonts.googleapis.com">
     <link rel="preconnect" href="https://fonts.gstatic.com" crossorigin>
     <link href="https://fonts.googleapis.com/css2?family=DM+Sans:wght@400;500;600;700&family=Manrope:wght@400;500;600;700;800&display=swap" rel="stylesheet">
@@ -36,7 +37,7 @@ $theme = get_template_directory_uri();
 <a class="skip-link" href="#main">Skip to content</a>
 <header class="header" id="top">
     <div class="container header-inner">
-        <a class="logo" href="<?php echo esc_url(home_url('/')); ?>" aria-label="The Arrow Church home"><img src="<?php echo esc_url(arrow_photo_url('arrow-logo.png')); ?>" alt="The Arrow Church"></a>
+        <a class="logo" href="<?php echo esc_url(home_url('/')); ?>" aria-label="The Arrow Church home"><img src="<?php echo esc_url(arrow_photo_url('arrow-logo.png')); ?>" alt="The Arrow Church"<?php echo arrow_img_attrs('arrow-logo.png', ''); ?>></a>
         <button class="menu-toggle" type="button" aria-controls="main-nav" aria-expanded="false" aria-label="Open menu"><span></span><span></span></button>
         <nav id="main-nav" aria-label="Main navigation">
             <button class="menu-close" type="button">CLOSE MENU <span aria-hidden="true">&times;</span></button>
@@ -71,7 +72,7 @@ $theme = get_template_directory_uri();
     <?php endif; ?>
 </main>
 <footer class="footer"><div class="container"><div class="footer-main">
-    <img src="<?php echo esc_url(arrow_photo_url('arrow-logo.png')); ?>" alt="The Arrow Church">
+    <img src="<?php echo esc_url(arrow_photo_url('arrow-logo.png')); ?>" alt="The Arrow Church"<?php echo arrow_img_attrs('arrow-logo.png'); ?>>
     <div><p>FOLLOW ALONG</p><a href="https://www.instagram.com/the.arrow.church/">Instagram <span class="arrow-icon arrow-up-right" aria-hidden="true"></span></a><a href="https://www.youtube.com/@thearrowchurch">YouTube <span class="arrow-icon arrow-up-right" aria-hidden="true"></span></a><a href="https://www.facebook.com/profile.php?id=100081125124651">Facebook <span class="arrow-icon arrow-up-right" aria-hidden="true"></span></a></div>
     <div><p>EXPLORE</p><a href="<?php echo esc_url(home_url('/about/')); ?>">About <span class="arrow-icon arrow-up-right" aria-hidden="true"></span></a><a href="<?php echo esc_url(home_url('/about/our-team/')); ?>">Staff <span class="arrow-icon arrow-up-right" aria-hidden="true"></span></a><a href="<?php echo esc_url(home_url('/ministries/')); ?>">Ministries <span class="arrow-icon arrow-up-right" aria-hidden="true"></span></a><a href="<?php echo esc_url(home_url('/events/')); ?>">Events <span class="arrow-icon arrow-up-right" aria-hidden="true"></span></a><a href="<?php echo esc_url(home_url('/pages/watch-live/')); ?>">Watch Live <span class="arrow-icon arrow-up-right" aria-hidden="true"></span></a><a href="<?php echo esc_url(home_url('/contact/')); ?>">Contact <span class="arrow-icon arrow-up-right" aria-hidden="true"></span></a><a href="<?php echo esc_url(home_url('/give/')); ?>">Give <span class="arrow-icon arrow-up-right" aria-hidden="true"></span></a></div>
     <div><p>VISIT</p><a href="https://maps.app.goo.gl/62ZYeJGdf3Qw7sJn7">2931 Lucerne Dr, Janesville, WI 53545 <span class="arrow-icon arrow-up-right" aria-hidden="true"></span></a><a href="tel:16087744837">(608) 774-4837 <span class="arrow-icon arrow-up-right" aria-hidden="true"></span></a></div>

diff --git a/front-page.php b/front-page.php
@@ -7,6 +7,8 @@ if ($markup === false) {
     exit('The homepage template is unavailable.');
 }
 $markup = str_replace('assets/', $theme_url . '/assets/', $markup);
+$hero_url = esc_url(arrow_photo_url('arrow-home.jpg', 'hero:home'));
+$markup = str_replace('href="' . $theme_url . '/assets/arrow-home.jpg"', 'href="' . $hero_url . '"', $markup);
 $markup = str_replace('<a class="logo" href="/"', '<a class="logo" href="' . esc_url(home_url('/')) . '"', $markup);
 foreach (['arrow-home.jpg', 'arrow-worship.jpg', 'arrow-kids.jpg', 'arrow-youth.jpg', 'arrow-young-adults.jpg', 'arrow-prayer.jpg', 'arrow-pastors.jpg', 'arrow-team-rossy.jpg', 'arrow-logo.png'] as $file) {
     $old_url = $theme_url . '/assets/' . $file;
@@ -14,7 +16,6 @@ foreach (['arrow-home.jpg', 'arrow-worship.jpg', 'arrow-kids.jpg', 'arrow-youth.
     $markup = str_replace('src="' . $old_url . '"', 'src="' . $new_url . '" style="' . esc_attr(arrow_photo_style($file)) . '"', $markup);
     $markup = str_replace('href="' . $old_url . '"', 'href="' . $new_url . '"', $markup);
 }
-$hero_url = esc_url(arrow_photo_url('arrow-home.jpg', 'hero:home'));
 $markup = str_replace('class="hero-photo"', 'class="hero-photo" style="background-image:url(&quot;' . $hero_url . '&quot;);' . esc_attr(arrow_photo_style('arrow-home.jpg', 'hero:home', true)) . '"', $markup);
 $live_url = esc_url(arrow_photo_url('arrow-home.jpg'));
 $live_display = arrow_photo_display('arrow-home.jpg');

diff --git a/inc/site-photos.php b/inc/site-photos.php
@@ -44,6 +44,34 @@ function arrow_photo_url($file, $slot = '') {
     return get_template_directory_uri() . '/assets/' . $file;
 }
 
+function arrow_asset_dimensions($file) {
+    static $cache = [];
+    $file = basename((string) $file);
+    if (isset($cache[$file])) {
+        return $cache[$file];
+    }
+    $path = get_template_directory() . '/assets/' . $file;
+    $info = is_readable($path) ? @getimagesize($path) : false;
+    $cache[$file] = $info ? [(int) $info[0], (int) $info[1]] : [0, 0];
+    return $cache[$file];
+}
+
+/** width/height plus loading hints. $loading '' leaves the default eager fetch. */
+function arrow_img_attrs($file, $loading = 'lazy', $priority = '') {
+    [$width, $height] = arrow_asset_dimensions($file);
+    $attrs = ' decoding="async"';
+    if ($width && $height) {
+        $attrs .= ' width="' . $width . '" height="' . $height . '"';
+    }
+    if ($loading !== '') {
+        $attrs .= ' loading="' . esc_attr($loading) . '"';
+    }
+    if ($priority !== '') {
+        $attrs .= ' fetchpriority="' . esc_attr($priority) . '"';
+    }
+    return $attrs;
+}
+
 function arrow_photo_display($file, $slot = '') {
     $settings = get_option('arrow_photo_display', []);
     if (!is_array($settings)) {
